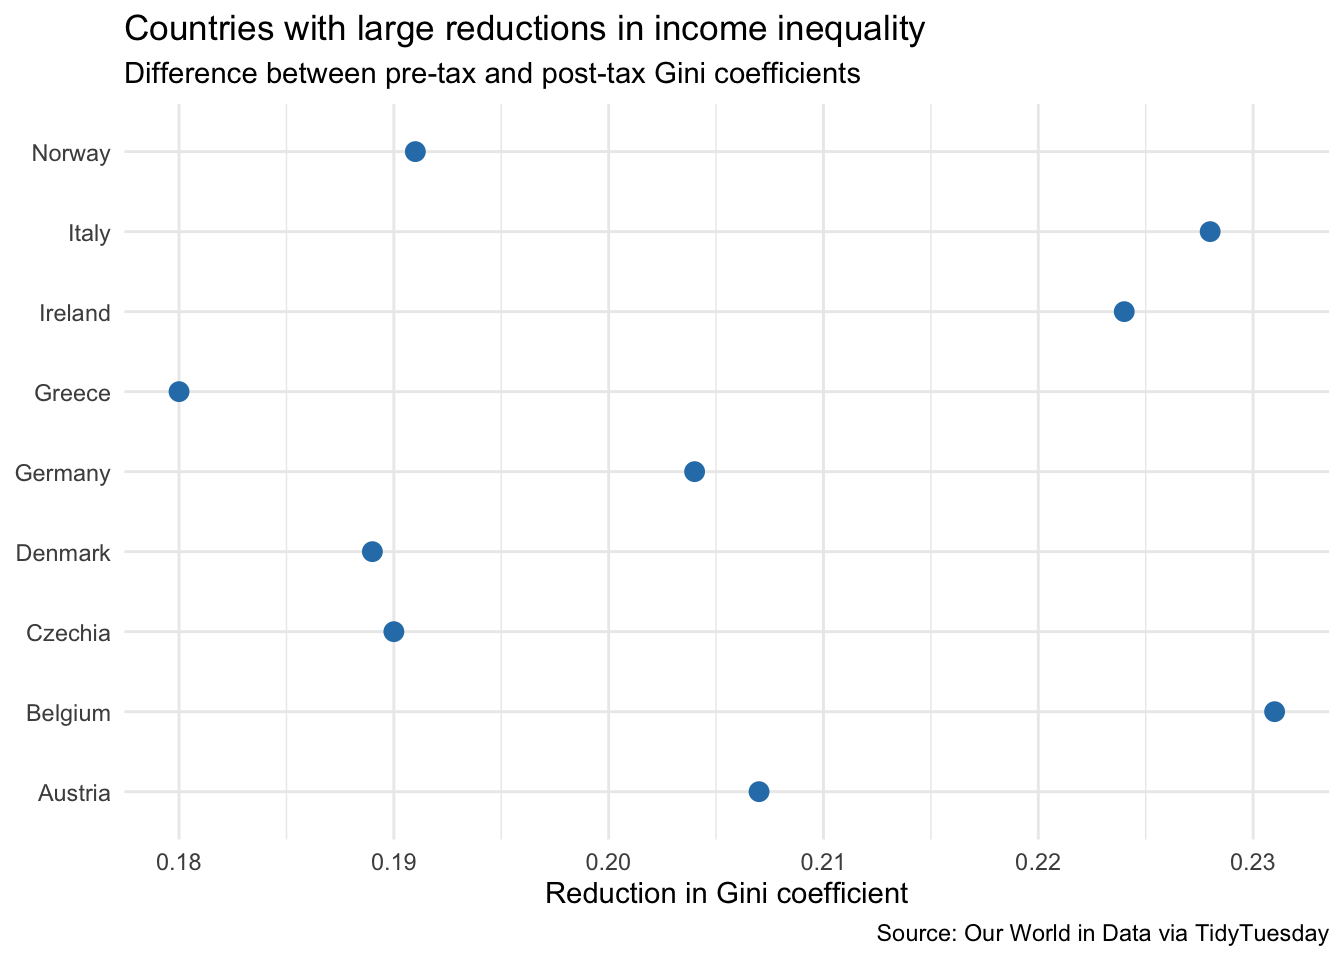
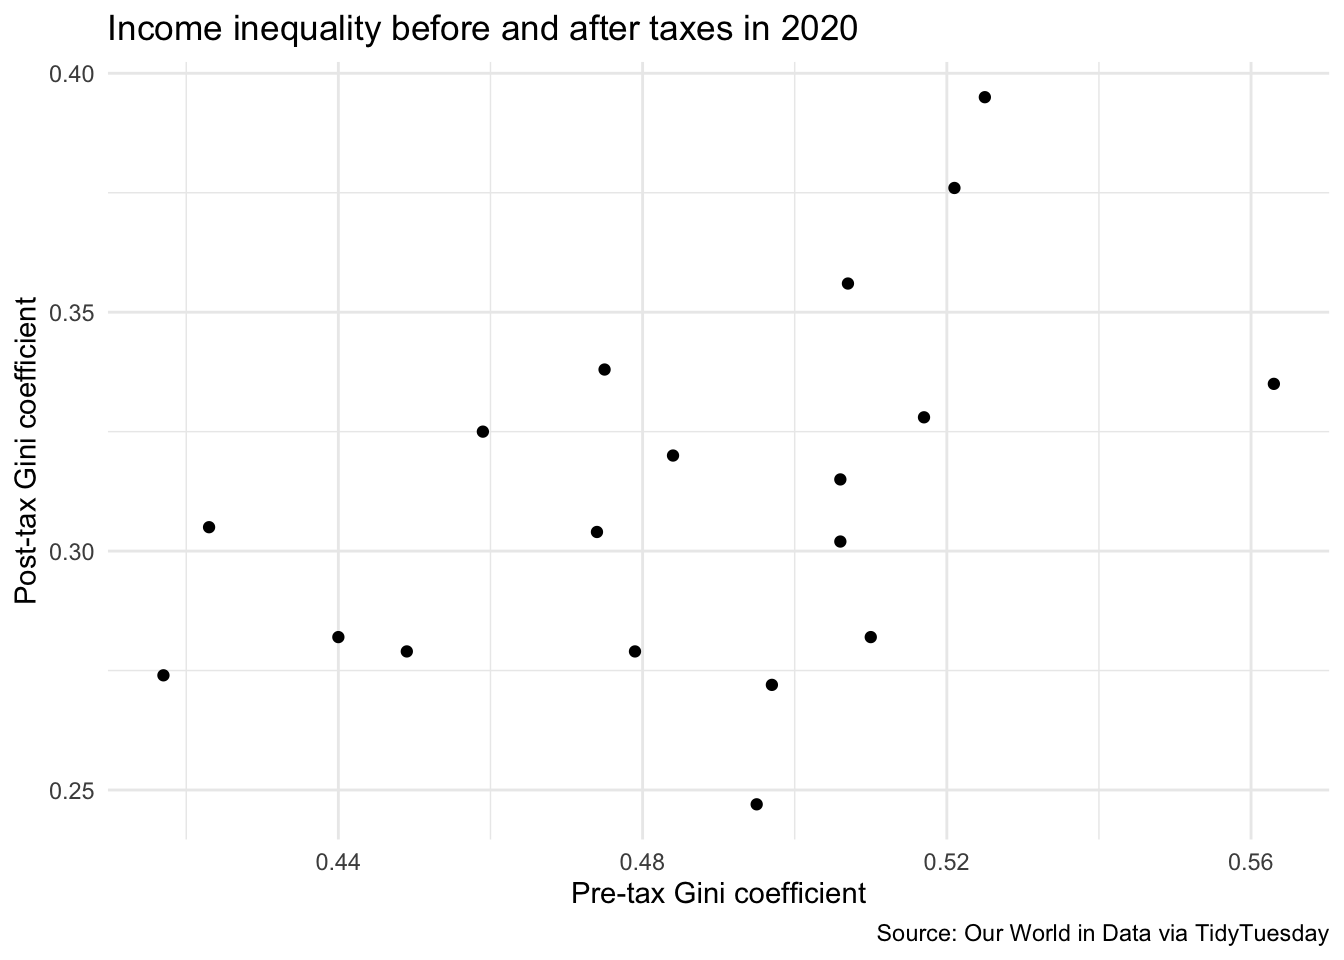
Simplify TidyTuesday analysis to 2020 comparison

diff --git a/docs/income-inequality.html b/docs/income-inequality.html
@@ -151,9 +151,9 @@ pre > code.sourceCode > span > a:first-child::before { text-decoration: underlin
     <h2 id="toc-title">On this page</h2>
    
   <ul>
-  <li><a href="#introduction" id="toc-introduction" class="nav-link active" data-scroll-target="#introduction">Introduction</a></li>
-  <li><a href="#preparing-the-data" id="toc-preparing-the-data" class="nav-link" data-scroll-target="#preparing-the-data">Preparing the data</a></li>
-  <li><a href="#which-countries-reduce-inequality-the-most" id="toc-which-countries-reduce-inequality-the-most" class="nav-link" data-scroll-target="#which-countries-reduce-inequality-the-most">Which countries reduce inequality the most?</a></li>
+  <li><a href="#question" id="toc-question" class="nav-link active" data-scroll-target="#question">Question</a></li>
+  <li><a href="#choose-the-observations" id="toc-choose-the-observations" class="nav-link" data-scroll-target="#choose-the-observations">Choose the observations</a></li>
+  <li><a href="#make-a-graph" id="toc-make-a-graph" class="nav-link" data-scroll-target="#make-a-graph">Make a graph</a></li>
   </ul>
 </nav>
     </div>
@@ -185,10 +185,10 @@ pre > code.sourceCode > span > a:first-child::before { text-decoration: underlin
 </header>
 
 
-<section id="introduction" class="level2">
-<h2 class="anchored" data-anchor-id="introduction">Introduction</h2>
-<p>The Gini coefficient measures income inequality from 0 to 1, with higher values representing greater inequality. This analysis examines which countries experience the largest reduction in inequality after taxes and government benefits.</p>
-<p>The data come from the <a href="https://github.com/rfordatascience/tidytuesday/tree/main/data/2025/2025-08-05">TidyTuesday Income Inequality dataset</a>.</p>
+<section id="question" class="level2">
+<h2 class="anchored" data-anchor-id="question">Question</h2>
+<p>How do pre-tax and post-tax income inequality compare across countries in 2020?</p>
+<p>The Gini coefficient measures income inequality from 0 to 1. Higher numbers mean more inequality. The data come from <a href="https://github.com/rfordatascience/tidytuesday/tree/main/data/2025/2025-08-05">TidyTuesday’s income inequality dataset</a>.</p>
 <div class="cell">
 <div class="sourceCode cell-code" id="cb1"><pre class="sourceCode r code-with-copy"><code class="sourceCode r"><span id="cb1-1"><a href="#cb1-1" aria-hidden="true" tabindex="-1"></a><span class="fu">library</span>(tidyverse)</span>
 <span id="cb1-2"><a href="#cb1-2" aria-hidden="true" tabindex="-1"></a></span>
@@ -197,46 +197,31 @@ pre > code.sourceCode > span > a:first-child::before { text-decoration: underlin
 <span id="cb1-5"><a href="#cb1-5" aria-hidden="true" tabindex="-1"></a>)</span></code><button title="Copy to Clipboard" class="code-copy-button"><i class="bi"></i></button></pre></div>
 </div>
 </section>
-<section id="preparing-the-data" class="level2">
-<h2 class="anchored" data-anchor-id="preparing-the-data">Preparing the data</h2>
-<p>For each country, this analysis uses its most recent observation and calculates the difference between its pre-tax and post-tax Gini coefficients. It then focuses on countries where the difference is at least 0.18.</p>
+<section id="choose-the-observations" class="level2">
+<h2 class="anchored" data-anchor-id="choose-the-observations">Choose the observations</h2>
+<p>I use 2020 because the dataset has both Gini measures for 19 countries in that year. I remove rows missing either measure.</p>
 <div class="cell">
-<div class="sourceCode cell-code" id="cb2"><pre class="sourceCode r code-with-copy"><code class="sourceCode r"><span id="cb2-1"><a href="#cb2-1" aria-hidden="true" tabindex="-1"></a>latest_inequality <span class="ot">&lt;-</span> income_inequality <span class="sc">|&gt;</span></span>
+<div class="sourceCode cell-code" id="cb2"><pre class="sourceCode r code-with-copy"><code class="sourceCode r"><span id="cb2-1"><a href="#cb2-1" aria-hidden="true" tabindex="-1"></a>inequality_2020 <span class="ot">&lt;-</span> income_inequality <span class="sc">|&gt;</span></span>
 <span id="cb2-2"><a href="#cb2-2" aria-hidden="true" tabindex="-1"></a>  <span class="fu">filter</span>(</span>
-<span id="cb2-3"><a href="#cb2-3" aria-hidden="true" tabindex="-1"></a>    <span class="sc">!</span><span class="fu">is.na</span>(Code),</span>
+<span id="cb2-3"><a href="#cb2-3" aria-hidden="true" tabindex="-1"></a>    Year <span class="sc">==</span> <span class="dv">2020</span>,</span>
 <span id="cb2-4"><a href="#cb2-4" aria-hidden="true" tabindex="-1"></a>    <span class="sc">!</span><span class="fu">is.na</span>(gini_mi_eq),</span>
 <span id="cb2-5"><a href="#cb2-5" aria-hidden="true" tabindex="-1"></a>    <span class="sc">!</span><span class="fu">is.na</span>(gini_dhi_eq)</span>
-<span id="cb2-6"><a href="#cb2-6" aria-hidden="true" tabindex="-1"></a>  ) <span class="sc">|&gt;</span></span>
-<span id="cb2-7"><a href="#cb2-7" aria-hidden="true" tabindex="-1"></a>  <span class="fu">group_by</span>(Entity) <span class="sc">|&gt;</span></span>
-<span id="cb2-8"><a href="#cb2-8" aria-hidden="true" tabindex="-1"></a>  <span class="fu">filter</span>(Year <span class="sc">==</span> <span class="fu">max</span>(Year)) <span class="sc">|&gt;</span></span>
-<span id="cb2-9"><a href="#cb2-9" aria-hidden="true" tabindex="-1"></a>  <span class="fu">mutate</span>(</span>
-<span id="cb2-10"><a href="#cb2-10" aria-hidden="true" tabindex="-1"></a>    <span class="at">inequality_reduction =</span> gini_mi_eq <span class="sc">-</span> gini_dhi_eq</span>
-<span id="cb2-11"><a href="#cb2-11" aria-hidden="true" tabindex="-1"></a>  ) <span class="sc">|&gt;</span></span>
-<span id="cb2-12"><a href="#cb2-12" aria-hidden="true" tabindex="-1"></a>  <span class="fu">arrange</span>(<span class="fu">desc</span>(inequality_reduction))</span>
-<span id="cb2-13"><a href="#cb2-13" aria-hidden="true" tabindex="-1"></a></span>
-<span id="cb2-14"><a href="#cb2-14" aria-hidden="true" tabindex="-1"></a>large_reductions <span class="ot">&lt;-</span> latest_inequality <span class="sc">|&gt;</span></span>
-<span id="cb2-15"><a href="#cb2-15" aria-hidden="true" tabindex="-1"></a>  <span class="fu">filter</span>(inequality_reduction <span class="sc">&gt;=</span> <span class="fl">0.18</span>)</span></code><button title="Copy to Clipboard" class="code-copy-button"><i class="bi"></i></button></pre></div>
+<span id="cb2-6"><a href="#cb2-6" aria-hidden="true" tabindex="-1"></a>  )</span></code><button title="Copy to Clipboard" class="code-copy-button"><i class="bi"></i></button></pre></div>
 </div>
 </section>
-<section id="which-countries-reduce-inequality-the-most" class="level2">
-<h2 class="anchored" data-anchor-id="which-countries-reduce-inequality-the-most">Which countries reduce inequality the most?</h2>
+<section id="make-a-graph" class="level2">
+<h2 class="anchored" data-anchor-id="make-a-graph">Make a graph</h2>
+<p>Each point represents one country. The horizontal position shows its pre-tax Gini coefficient, and the vertical position shows its post-tax Gini coefficient.</p>
 <div class="cell">
-<div class="sourceCode cell-code" id="cb3"><pre class="sourceCode r code-with-copy"><code class="sourceCode r"><span id="cb3-1"><a href="#cb3-1" aria-hidden="true" tabindex="-1"></a><span class="fu">ggplot</span>(</span>
-<span id="cb3-2"><a href="#cb3-2" aria-hidden="true" tabindex="-1"></a>  large_reductions,</span>
-<span id="cb3-3"><a href="#cb3-3" aria-hidden="true" tabindex="-1"></a>  <span class="fu">aes</span>(</span>
-<span id="cb3-4"><a href="#cb3-4" aria-hidden="true" tabindex="-1"></a>    <span class="at">x =</span> inequality_reduction,</span>
-<span id="cb3-5"><a href="#cb3-5" aria-hidden="true" tabindex="-1"></a>    <span class="at">y =</span> Entity</span>
-<span id="cb3-6"><a href="#cb3-6" aria-hidden="true" tabindex="-1"></a>  )</span>
-<span id="cb3-7"><a href="#cb3-7" aria-hidden="true" tabindex="-1"></a>) <span class="sc">+</span></span>
-<span id="cb3-8"><a href="#cb3-8" aria-hidden="true" tabindex="-1"></a>  <span class="fu">geom_point</span>(<span class="at">size =</span> <span class="dv">3</span>, <span class="at">color =</span> <span class="st">"#2C7FB8"</span>) <span class="sc">+</span></span>
-<span id="cb3-9"><a href="#cb3-9" aria-hidden="true" tabindex="-1"></a>  <span class="fu">labs</span>(</span>
-<span id="cb3-10"><a href="#cb3-10" aria-hidden="true" tabindex="-1"></a>    <span class="at">title =</span> <span class="st">"Countries with large reductions in income inequality"</span>,</span>
-<span id="cb3-11"><a href="#cb3-11" aria-hidden="true" tabindex="-1"></a>    <span class="at">subtitle =</span> <span class="st">"Difference between pre-tax and post-tax Gini coefficients"</span>,</span>
-<span id="cb3-12"><a href="#cb3-12" aria-hidden="true" tabindex="-1"></a>    <span class="at">x =</span> <span class="st">"Reduction in Gini coefficient"</span>,</span>
-<span id="cb3-13"><a href="#cb3-13" aria-hidden="true" tabindex="-1"></a>    <span class="at">y =</span> <span class="cn">NULL</span>,</span>
-<span id="cb3-14"><a href="#cb3-14" aria-hidden="true" tabindex="-1"></a>    <span class="at">caption =</span> <span class="st">"Source: Our World in Data via TidyTuesday"</span></span>
-<span id="cb3-15"><a href="#cb3-15" aria-hidden="true" tabindex="-1"></a>  ) <span class="sc">+</span></span>
-<span id="cb3-16"><a href="#cb3-16" aria-hidden="true" tabindex="-1"></a>  <span class="fu">theme_minimal</span>()</span></code><button title="Copy to Clipboard" class="code-copy-button"><i class="bi"></i></button></pre></div>
+<div class="sourceCode cell-code" id="cb3"><pre class="sourceCode r code-with-copy"><code class="sourceCode r"><span id="cb3-1"><a href="#cb3-1" aria-hidden="true" tabindex="-1"></a><span class="fu">ggplot</span>(inequality_2020, <span class="fu">aes</span>(<span class="at">x =</span> gini_mi_eq, <span class="at">y =</span> gini_dhi_eq)) <span class="sc">+</span></span>
+<span id="cb3-2"><a href="#cb3-2" aria-hidden="true" tabindex="-1"></a>  <span class="fu">geom_point</span>() <span class="sc">+</span></span>
+<span id="cb3-3"><a href="#cb3-3" aria-hidden="true" tabindex="-1"></a>  <span class="fu">labs</span>(</span>
+<span id="cb3-4"><a href="#cb3-4" aria-hidden="true" tabindex="-1"></a>    <span class="at">title =</span> <span class="st">"Income inequality before and after taxes in 2020"</span>,</span>
+<span id="cb3-5"><a href="#cb3-5" aria-hidden="true" tabindex="-1"></a>    <span class="at">x =</span> <span class="st">"Pre-tax Gini coefficient"</span>,</span>
+<span id="cb3-6"><a href="#cb3-6" aria-hidden="true" tabindex="-1"></a>    <span class="at">y =</span> <span class="st">"Post-tax Gini coefficient"</span>,</span>
+<span id="cb3-7"><a href="#cb3-7" aria-hidden="true" tabindex="-1"></a>    <span class="at">caption =</span> <span class="st">"Source: Our World in Data via TidyTuesday"</span></span>
+<span id="cb3-8"><a href="#cb3-8" aria-hidden="true" tabindex="-1"></a>  ) <span class="sc">+</span></span>
+<span id="cb3-9"><a href="#cb3-9" aria-hidden="true" tabindex="-1"></a>  <span class="fu">theme_minimal</span>()</span></code><button title="Copy to Clipboard" class="code-copy-button"><i class="bi"></i></button></pre></div>
 <div class="cell-output-display">
 <div>
 <figure class="figure">
@@ -245,7 +230,7 @@ pre > code.sourceCode > span > a:first-child::before { text-decoration: underlin
 </div>
 </div>
 </div>
-<p>The graph shows countries whose pre-tax Gini coefficient is at least 0.18 higher than their post-tax Gini coefficient, using each country’s most recent available observation. A larger difference indicates that taxes and government benefits are associated with a greater reduction in measured income inequality.</p>
+<p>In this dataset, the post-tax Gini coefficient is lower than the pre-tax coefficient for all 19 countries shown. This is a comparison of the measures, not proof that a particular policy caused the difference.</p>
 
 
 </section>
